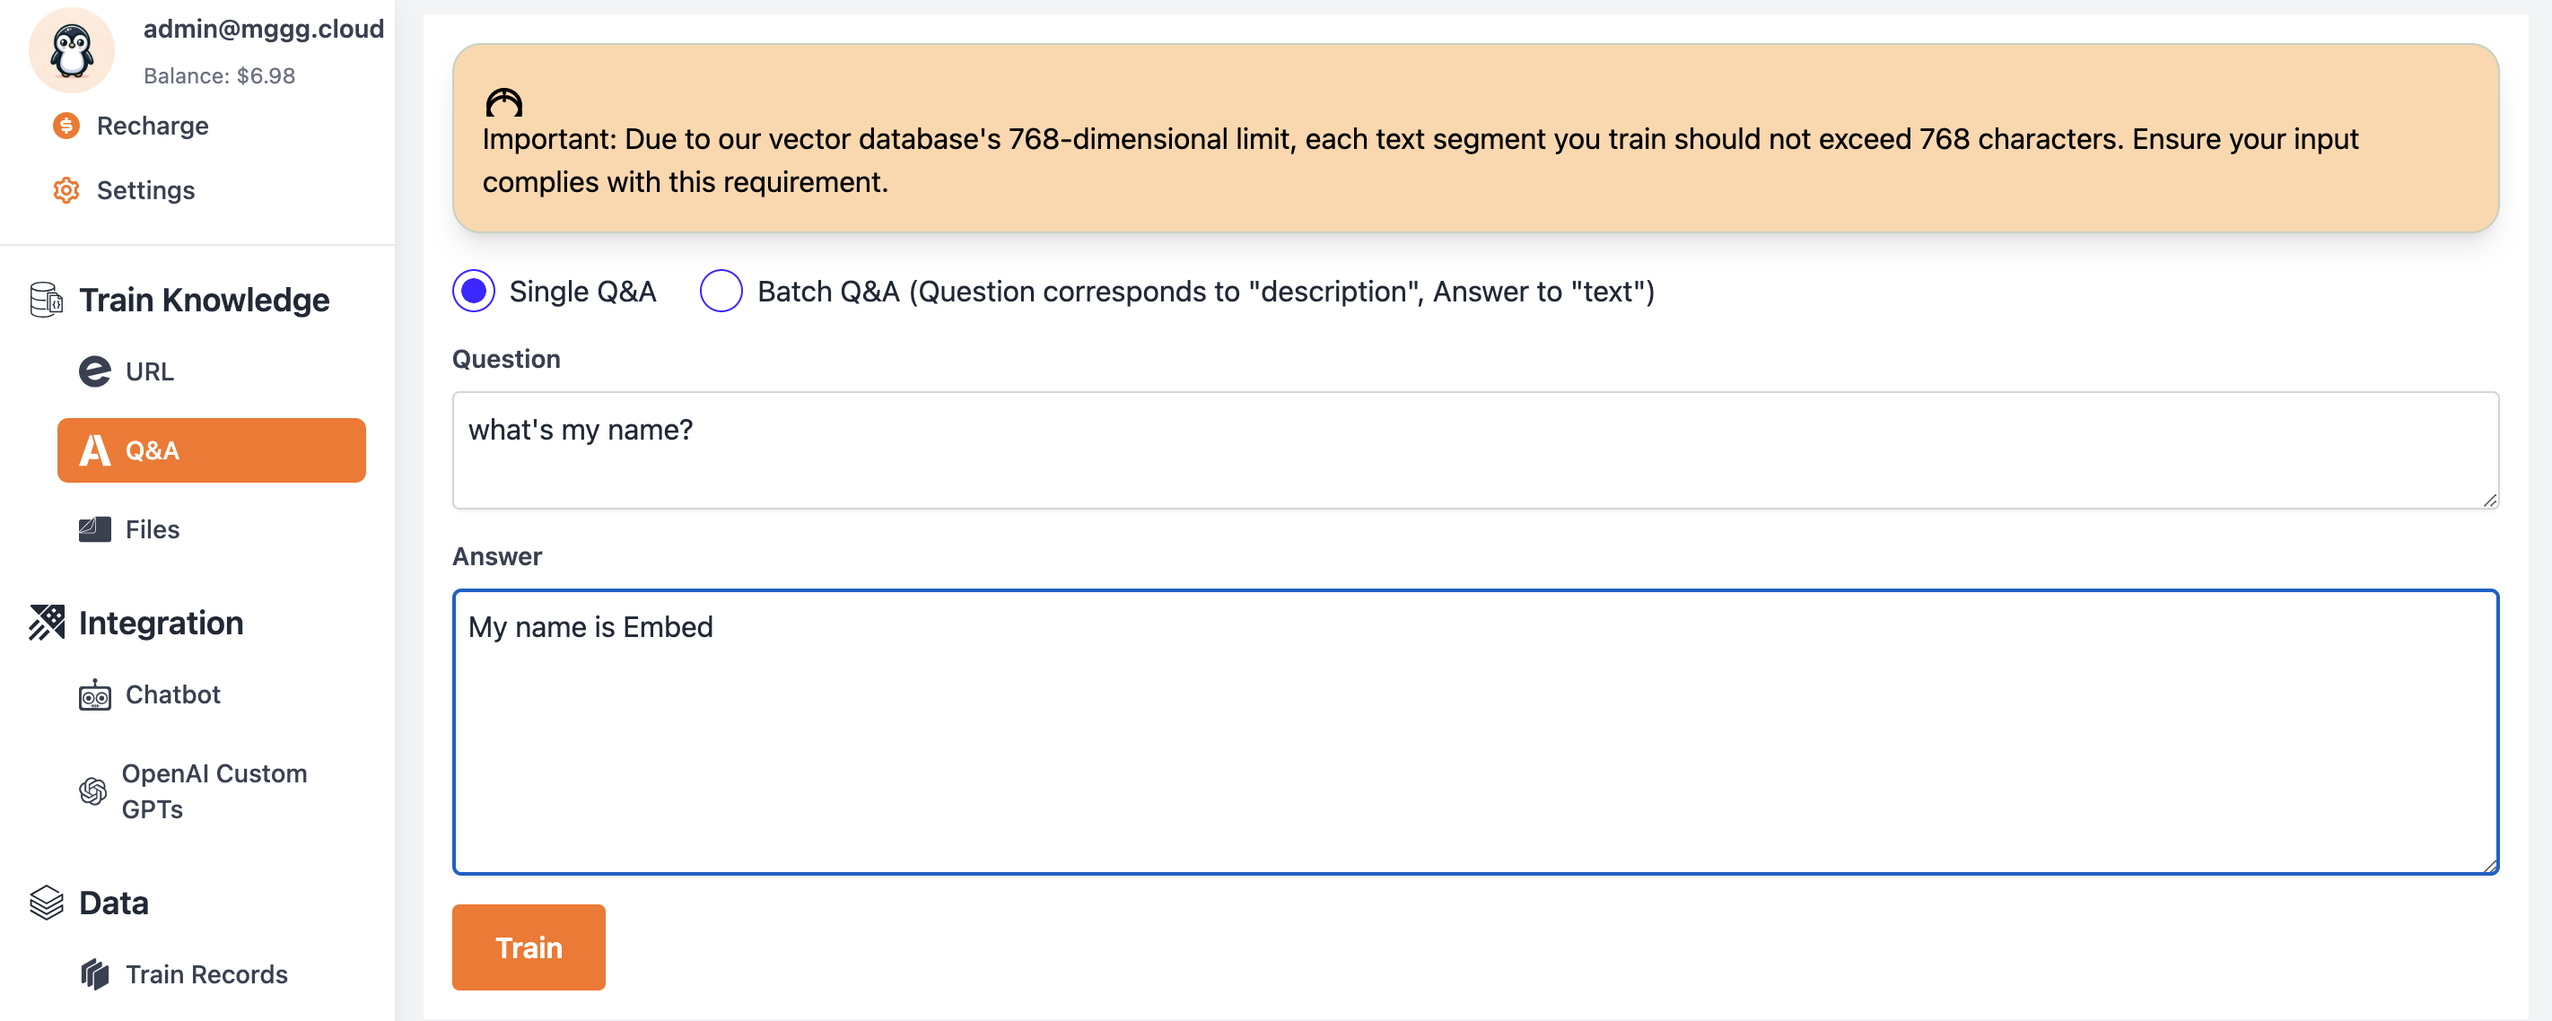
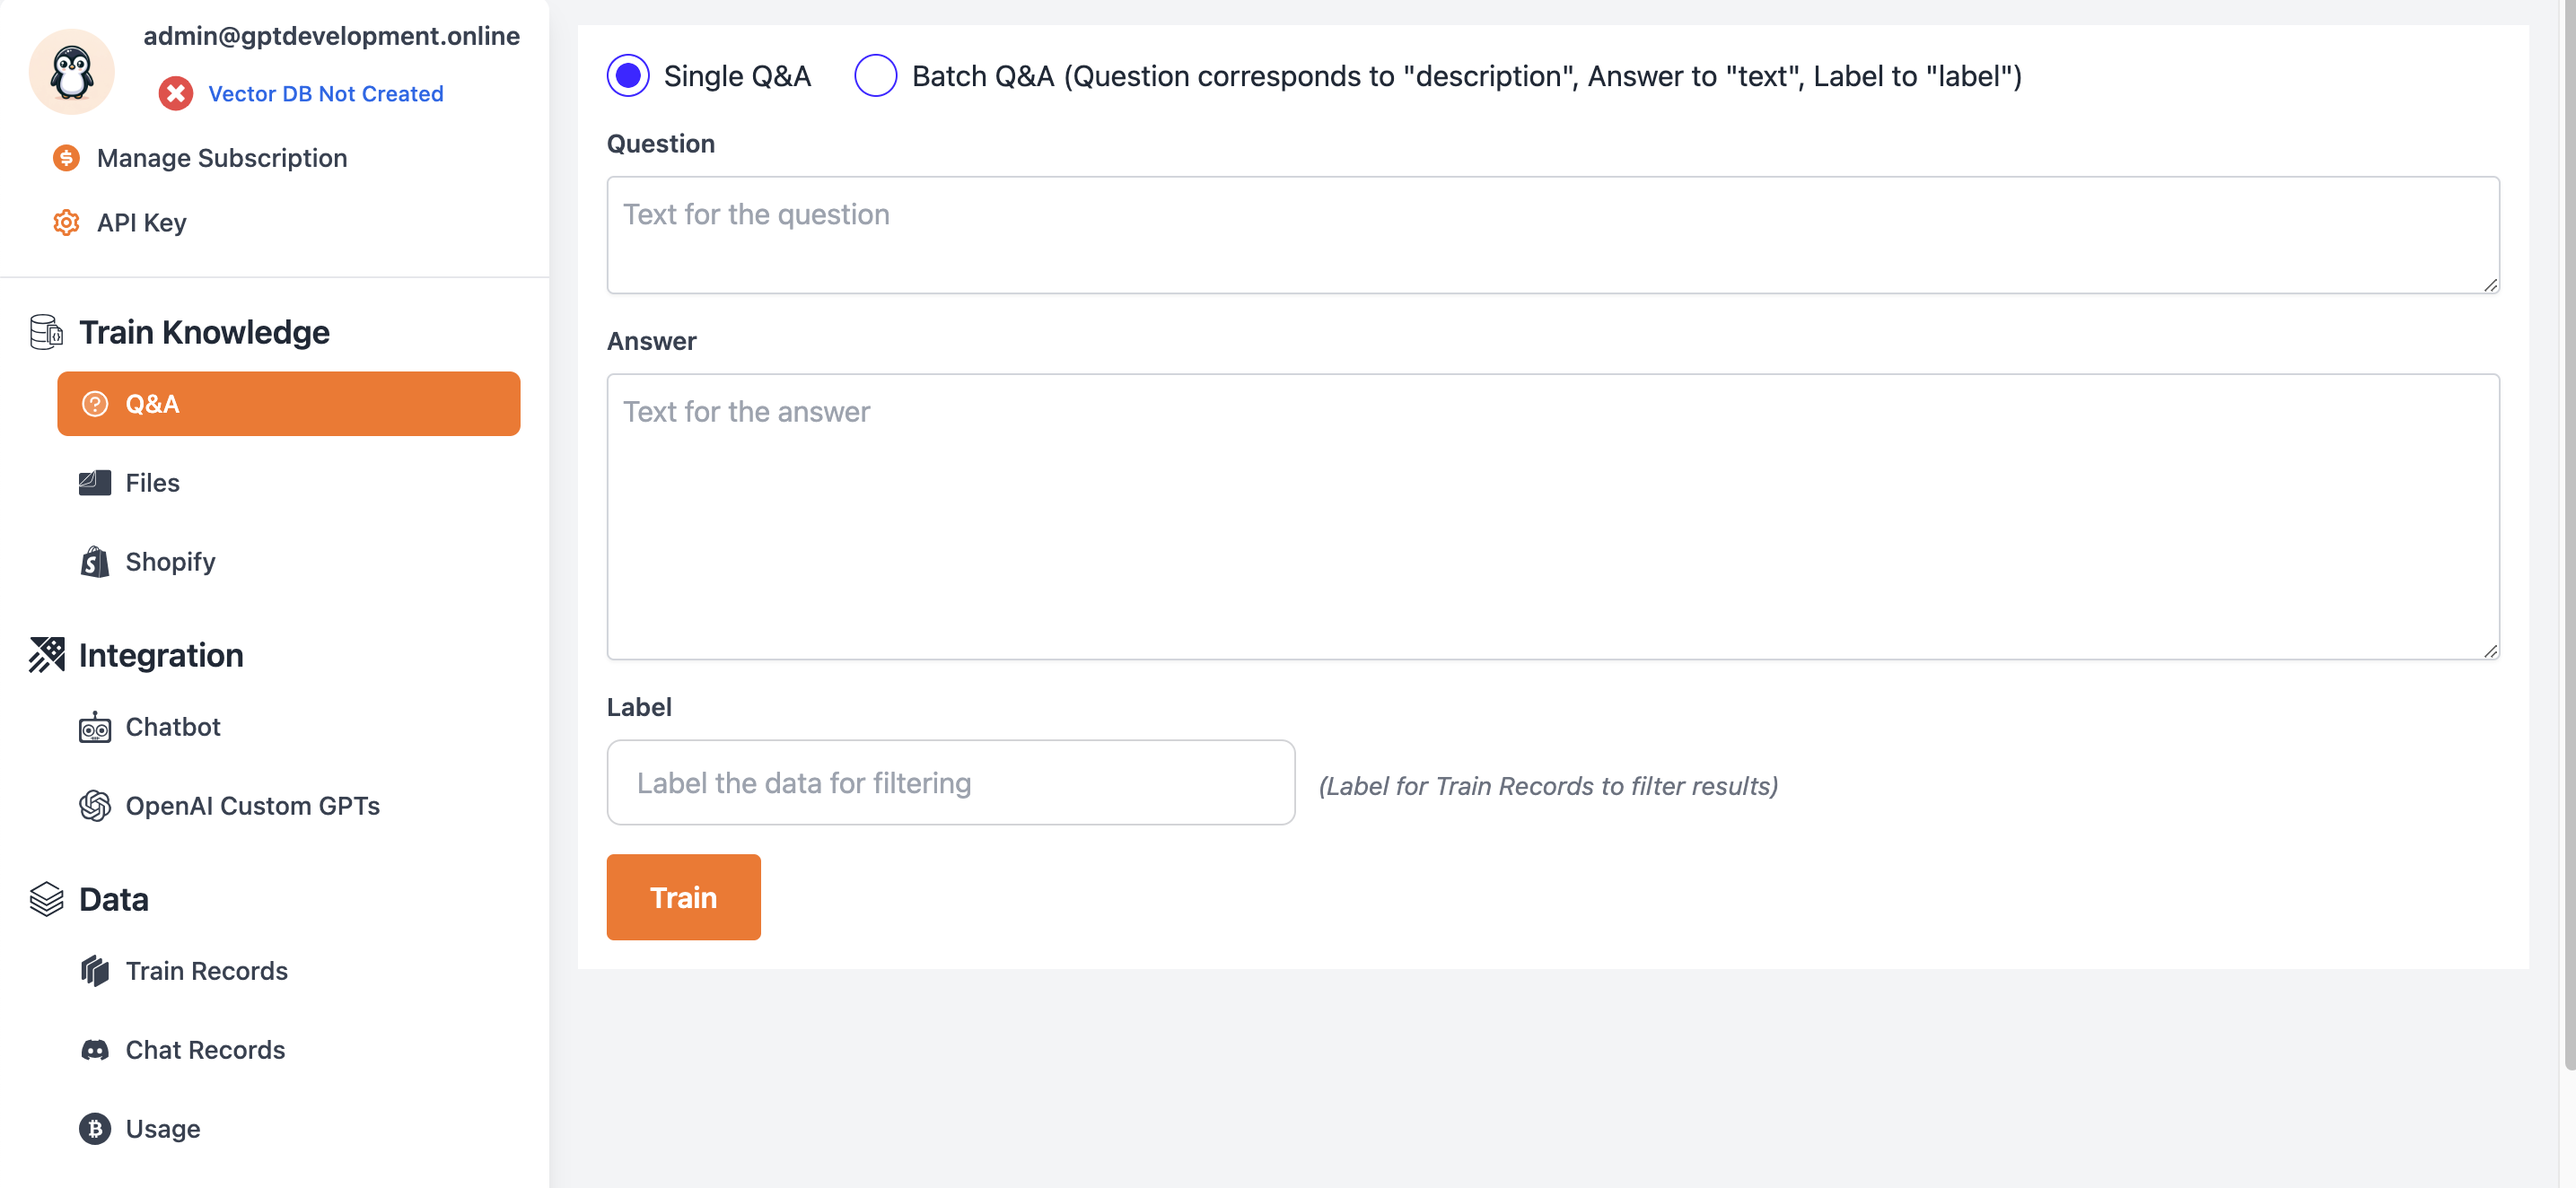
update docs

diff --git a/docs/intro.md b/docs/intro.md
@@ -4,71 +4,14 @@ sidebar_position: 1
 
 # Embed
 
-**Embed** empowers users to build their **own knowledge base** and train various data types, including:
-- `URL`
+**Embed** help users to quick build **RAG** Chatbots. Train your unique data, support various data types, including:
+- `Q&A`
 - `PDF`
 - `DOCX`
 - `TXT`
-- `Q&A pairs`
 
-**Domain-specific chatbots** can be easily shared on any website with a single line of code. Embed monitors interaction data to **evaluate knowledge matching effectiveness**, offering retraining options for improvement.
+**LLM support**: We currently support various large models such as **OpenAI GPT**, **Google Gemini**, and **LLama3**.
 
-Integrate various chatbots, including **OpenAI custom GPTs**, through the **Embed API** for personalized support.
-
-## Training
+**API Support**: Integrate various chatbots, including **OpenAI custom GPTs**, through the **Embed API** for personalized support.
 
 ![Embed-Intro](/img/embed/intro.png)
-
-To **train a PDF file**, click **Upload File**. Visit our [Training documentation](/docs/training/intro) for more details.
-
-### Training Records
-
-View the outcomes of successful training in the **Training Records** section.
-
-![Embed-Train-Records](/img/embed/train_records.png)
-
-## Chatbots
-
-Interact with your knowledge base directly through our internal chat interface.
-
-![Embed-ChatBot](/img/embed/chatbot.png)
-
-### Chat Records
-
-**Chat records** help evaluate the quality of your training data and the matched knowledge. If unsatisfied, retraining is an option.
-
-![Embed-ChatRecords](/img/embed/chat_records.png)
-
-### Share Your Chatbots
-
-Share your chatbots on your official website with a simple iframe.
-
-![Embed-Iframe-Chatbot](/img/embed/iframe-chatbot.png)
-
-For more details, see the [ChatBots section](/docs/chatbots/iframe).
-
-## Integration
-
-Currently, we support integration exclusively with **OpenAI Custom GPTs**. For integration guidelines, please refer to the [OpenAI Custom GPTs section](/docs/integrate/openai).
-
-### UseCase: Eurostat Explorer📚
-
-
-Integrates the Eurostat database with OpenAI Custom GPTs, enhancing data accessibility and analysis.
-
-[Eurostat Explorer](https://chat.openai.com/g/g-VanW5zpcq-eurostat-explorer)
-
-<img src="/img/embed/eurostat.png" width="50%" alt="Eurostat Explorer" />
-
-### UseCase: Virtual Assistant for School Boards Aotearoa NZ⚖ 
-
-Integrates New Zealand legislation with OpenAI Custom GPTs, offering streamlined legal guidance for educational institutions.
-
-[Virtual Assistant for School Boards Aotearoa NZ](https://chat.openai.com/g/g-5em8Iduno-virtual-assistant-for-school-boards-aotearoa-nz)
-
-<img src="/img/embed/new_zealand.png" width="50%" alt="Virtual Assistant for School Boards Aotearoa NZ" />
-
-
-## Conclusion
-Embed offers comprehensive tools for creating, integrating, and optimizing chatbots, ensuring they remain valuable user resources. For further information.
-

diff --git a/docs/training/qa.md b/docs/training/qa.md
@@ -7,7 +7,7 @@ Embed allows for the straightforward training of routine questions and answers. 
 
 ![Embed-Intro](/img/embed/train_qa.png)
 
-Please be aware of certain limitations with Embed. Since data is stored using 768-dimensional vectors, it's advisable to keep both questions and answers under 768 characters, with a current limit set at 600 characters.
+The label is used to filter the train records, it is optional.
 
 
 ## Batch Training for Q&A
@@ -17,8 +17,8 @@ For batch training of Q&A, you can opt for batch mode where the question corresp
 
 ```json
 [
-  {"description":  "what's your name", "text": "Embed"},
-  {"description":  "Where are you", "text": "Online"},
+  {"description":  "what's your name", "text": "Embed", "lebal":  "1"},
+  {"description":  "Where are you", "text": "Online", "label":  "2"},
   ...
 ]
 

diff --git a/docs/chatbots/intro.md b/docs/chatbots/intro.md
@@ -25,7 +25,7 @@ Defines the system prompt for this chatbot.
 
 We currently support three models:
 
-- **llama-2-7b-chat-int8** (temporarily free, the conversation effect is inferior to gpt3.5, gpt4)
+- **llama-3-8b** (temporarily free)
 - **gpt-3.5-turbo** (requires an OpenAI API key)
 - **gpt-4-0125-preview** (requires an OpenAI API key)
 

diff --git a/docs/training/file.md b/docs/training/file.md
@@ -16,5 +16,5 @@ Please note there are some limitations; only files smaller than 20MB can be trai
 
 To upload a file, simply click the upload button. (See image: Upload File)
 
-![Embed-Intro](/img/embed/intro.png)
+![Embed-Intro](/img/embed/upload_file.png)
 

diff --git a/docs/training/intro.md b/docs/training/intro.md
@@ -5,7 +5,6 @@ sidebar_position: 1
 # Intro
 
 Embed currently supports the following types of data sources for training:
-- URL
 - Q&A 
 - PDF
 - docx
